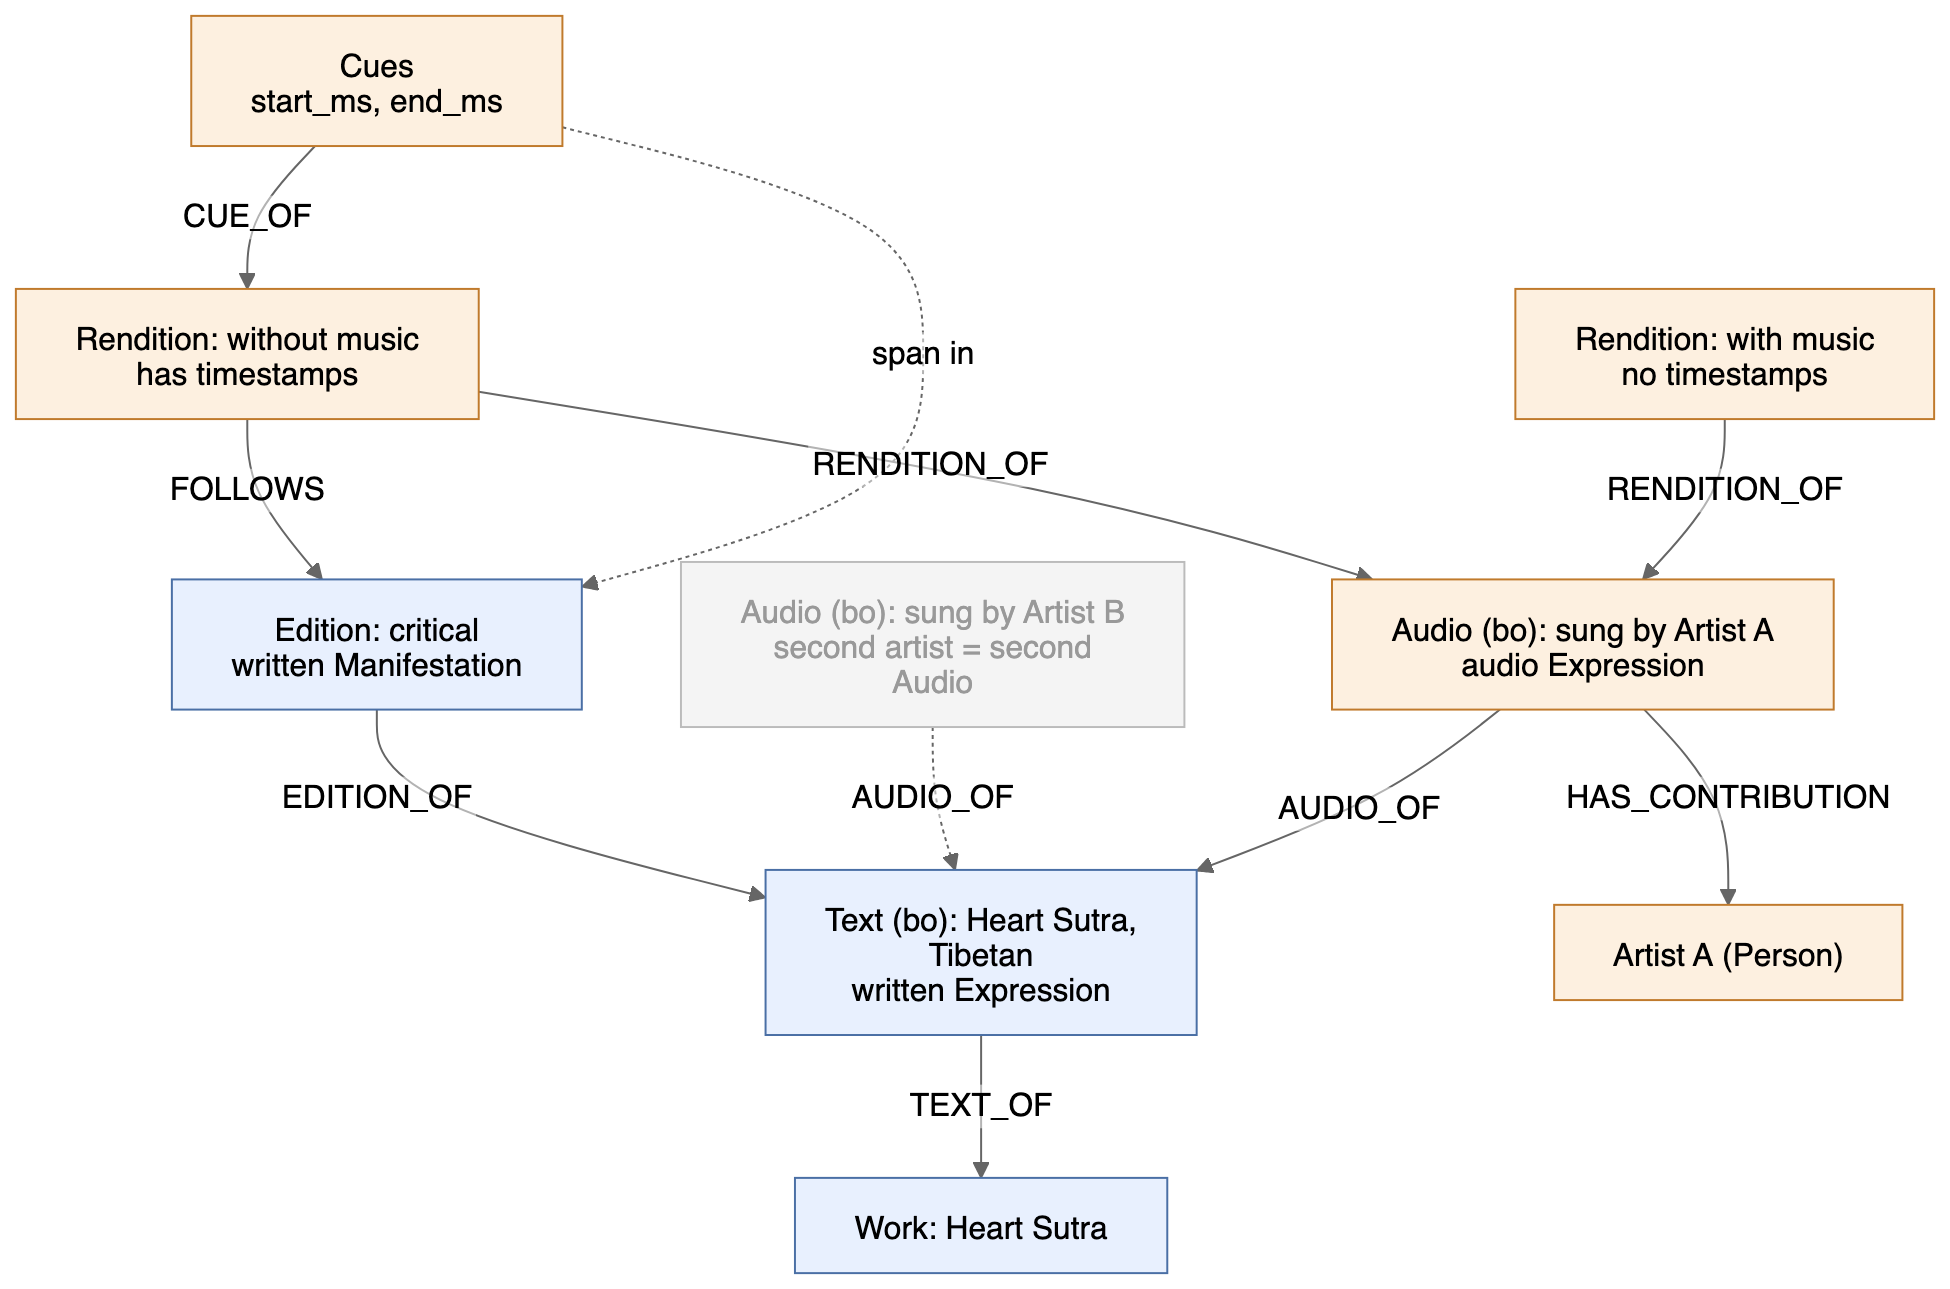
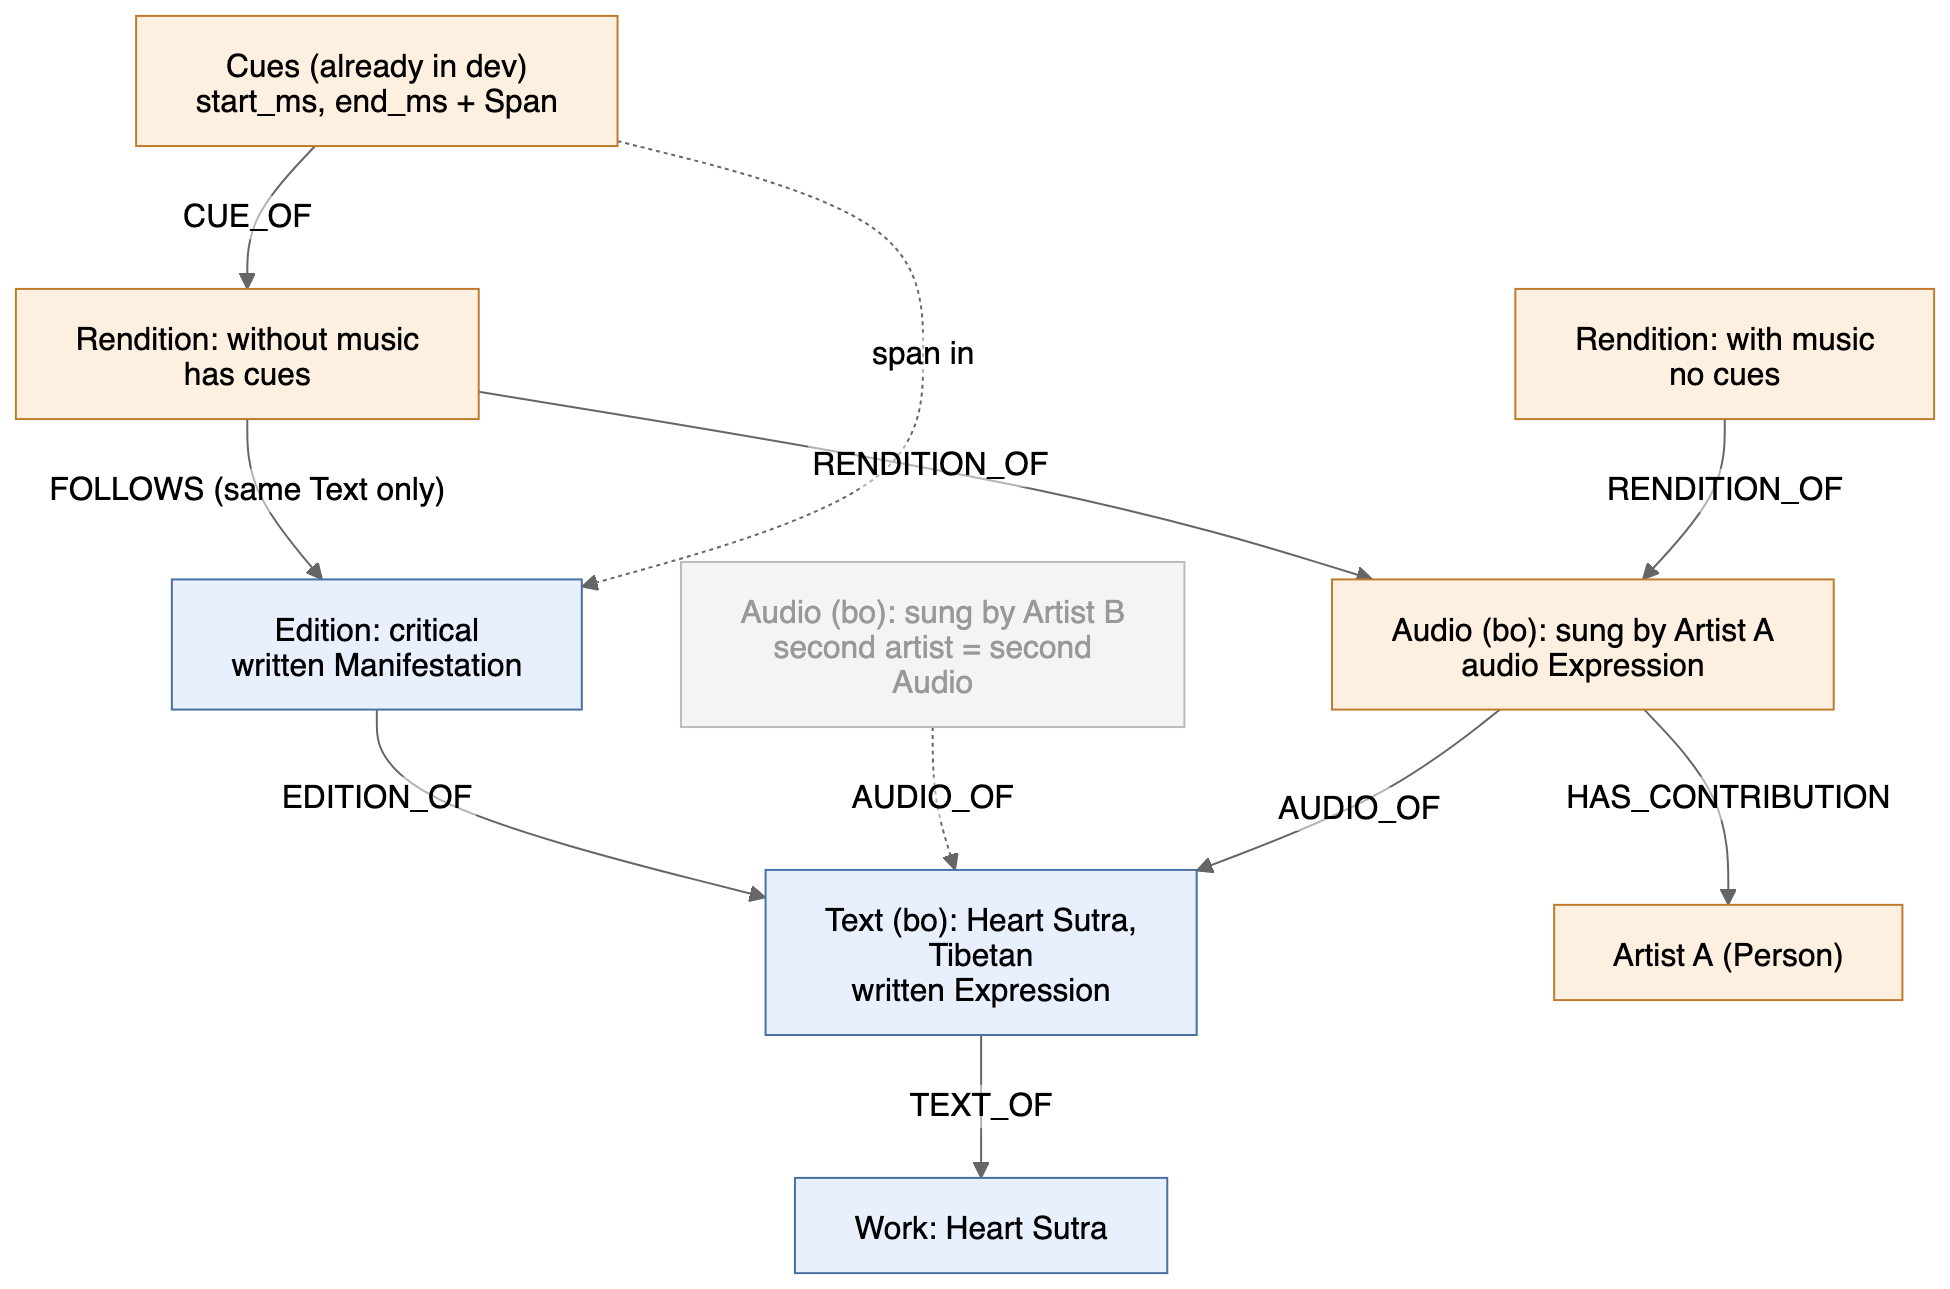
docs: audio proposal rev 2 (existing cues, same-text rule)
Records what the cue feature in dev already does and keeps it.
Adds the rule that a rendition's FOLLOWS edition must belong to the
same Text as its Audio, the list of changes, must-keep items, and
options for the team.

diff --git a/docs/proposals/audio-as-expression.md b/docs/proposals/audio-as-expression.md
@@ -1,12 +1,18 @@
 # Audio as its own Expression
 
-Status: proposal. Branch `feat/audio-expression-proposal`, from `dev` (`939df17`).
+Status: proposal, revision 2. Branch `feat/audio-expression-proposal`, up to date with `dev` (`8593529`). Issue: [#449](https://github.com/Webuddhist-tech/Webuddhist-library/issues/449).
+
+Revision 2 adds two items from team review:
+
+1. Cues and timings are already in `dev`. This proposal keeps them. It changes only the node that a cue attaches to.
+2. The edition that a rendition follows must belong to the same text as the audio. The database must enforce this rule.
 
 ## Idea
 
-- One artist's performance of a text is an **audio Expression**.
-- Each version of that performance (with music, without music) is a **rendition** at the Manifestation (edition) level.
-- A rendition with timestamps is aligned to the written edition it follows. A rendition without timestamps is linked only at the Expression level.
+- One artist's performance of a text is an **Audio** (Expression level).
+- Each version of that performance (with music, without music) is a **rendition** (Manifestation level).
+- A rendition with cues follows one written edition. That edition must be an edition of the same text as the Audio.
+- A rendition without cues links only to the Audio.
 
 ## Example
 
@@ -15,11 +21,11 @@ Work: Heart Sutra
 └─ Text (bo): Heart Sutra, Tibetan                ← written Expression
    ├─ Edition: critical                           ← written Manifestation
    └─ Audio (bo): Heart Sutra, sung by Artist A   ← audio Expression, AUDIO_OF the Tibetan text
-      ├─ Rendition: without music                 ← has timestamps → aligned to the critical edition
-      └─ Rendition: with music                    ← no timestamps → Expression-level link only
+      ├─ Rendition: without music                 ← has cues → FOLLOWS the critical edition
+      └─ Rendition: with music                    ← no cues → links to the Audio only
 ```
 
-A second artist gets a second audio Expression under the same Tibetan text.
+A second artist gets a second Audio under the same Tibetan text.
 
 ## Graph
 
@@ -32,26 +38,84 @@ graph LR
   Audio["Audio (Expression)"] -->|AUDIO_OF| Text["Text (Expression)"]
   Audio -->|HAS_CONTRIBUTION| Artist["Contribution → Person"]
   Rendition["Rendition (Manifestation)"] -->|RENDITION_OF| Audio
-  Rendition -.->|FOLLOWS, only with timestamps| Edition
+  Rendition -.->|FOLLOWS, only with cues| Edition
   Cue -->|CUE_OF| Rendition
-  Cue -.->|span in| Edition
-  Edition -->|EDITION_OF| Text
+  Span -->|SPAN_OF| Cue
+  Edition -->|EDITION_OF, same Text as AUDIO_OF| Text
 ```
 
 | Level | Node | Holds |
 |---|---|---|
 | Expression | `Audio` | title, language, license, artist (contribution), `AUDIO_OF → Text` |
-| Manifestation | `Rendition` | variant label (e.g. "with music"), audio file, format, duration |
-| Alignment | `Cue` | `start_ms`, `end_ms`, span in the `FOLLOWS` edition |
+| Manifestation | `Rendition` | variant label (for example "with music"), audio file key, format, size, duration |
+| Alignment | `Cue` + `Span` | `start_ms`, `end_ms`, and a `Span` in the `FOLLOWS` edition. No change from `dev`. |
+
+## What is in `dev` now
+
+The cue feature (`6d7dbb7`) is complete. We keep all of it.
+
+| Item | Where | Status |
+|---|---|---|
+| Graph shape `(:Span)-[:SPAN_OF]->(:Cue {start_ms, end_ms})-[:CUE_OF]->(:Recording)` | `database/neo4j_schema.yaml`, `database/recording_database.py` | Keep. Change only the `CUE_OF` target if we rename `Recording`. |
+| `GET`, `PUT`, `DELETE /v2/recordings/{id}/cues`. Cues are written and read in bulk. Cues have no ID. | `routers/recordings.py` | Keep. |
+| Rules: one cue or more, `start_ms < end_ms`, sorted, no time overlap, gaps allowed, a span repeats for a refrain, span in edition content | `models/recording.py`, `RecordingDatabase.replace_cues` | Keep. |
+| Triggers `enforce_cue_cue_of` and `enforce_cue_start_ms_lt_end_ms` | `database/neo4j_triggers.py` | Keep. |
+| Cue spans move with `PATCH /v2/editions/{id}/content`. A cue is deleted when its full span is deleted. | `database/span_database.py` | Keep. Change the match path. |
+| A cue write increments the edition revision | `touch_edition` in `replace_cues` and `delete_cues` | Keep. Use the `FOLLOWS` edition. |
+| Content migration checks that cue spans are in range | `database/content_migration.py` | Keep. Change the match path. |
+
+Today the cue span offsets point into the edition of `RECORDING_OF`. In this proposal they point into the edition of `FOLLOWS`. The offsets do not change. Existing cues stay correct after the migration.
 
 ## Rules
 
-1. Every `Audio` must have `AUDIO_OF` one `Text`. This is the Expression-level link and always exists.
-2. Every `Rendition` must have `RENDITION_OF` one `Audio`.
-3. `FOLLOWS → Edition` is optional. It is required only when the rendition has cues; all cues point into that edition.
-4. Renditions of the same `Audio` share its artist; a different artist means a different `Audio`.
-5. Deleting an edition removes `FOLLOWS` and its cues only. The audio and its renditions stay.
+1. Every `Audio` must have exactly one `AUDIO_OF → Text`. You cannot change it after you create the Audio.
+2. Every rendition must have exactly one `RENDITION_OF → Audio`.
+3. A rendition can have zero or one `FOLLOWS → Edition`.
+4. **Same text.** If a rendition has `FOLLOWS → Edition`, then that edition must have `EDITION_OF` the same `Text` as the Audio's `AUDIO_OF`. An edition of a translation or a commentary is not permitted.
+5. A rendition can have cues only if it has `FOLLOWS`. All cue spans point into that edition.
+6. If you change or remove `FOLLOWS`, the system deletes the cues of that rendition. Offsets into one edition are not correct in a different edition.
+7. Contributions (the artist) are on the Audio only. All renditions of one Audio have the same artist. A different artist must have a different Audio.
+8. If you delete an edition, the system deletes only the `FOLLOWS` relations and the cues that point into it. The Audio and its renditions stay.
+9. The audio file key must not contain an edition ID. The rendition stores its key.
 
-## Change from today
+## Changes to make
 
-Today a `Recording` hangs off an edition (`RECORDING_OF → Edition`, required). Under this proposal the current `Recording` becomes a `Rendition`, and a new `Audio` node sits between it and the `Text`. Existing recordings migrate to one `Audio` per (text, artist) with one rendition each, plus `FOLLOWS` to their current edition.
+| # | Change | Files |
+|---|---|---|
+| C1 | Add the `Audio` node with `AUDIO_OF → Text` (required), title, language, license, and narrator contributions. | `neo4j_schema.yaml`, new `models/audio.py`, new `database/audio_database.py` |
+| C2 | Attach the rendition to the Audio with `RENDITION_OF` (required). Replace `RECORDING_OF → Edition` (required) with `FOLLOWS → Edition` (optional). Move title, language, license, and contributions from the rendition to the Audio. Add a variant label to the rendition. | `neo4j_schema.yaml`, `models/recording.py`, `recording_database.py` |
+| C3 | Enforce the same-text rule (rule 4). Add a trigger with an audit query, as for `enforce_recording_contribution_narrator`. Also validate in the API and return `422`. | `neo4j_triggers.py`, `database_validator.py` |
+| C4 | Enforce rule 5. Add a trigger: a `Cue` must belong to a rendition that has `FOLLOWS`. `PUT /cues` on a rendition with no `FOLLOWS` returns `422`. | `neo4j_triggers.py`, `recording_database.py` |
+| C5 | Change the cue match path from `RECORDING_OF` to `FOLLOWS` in span updates, cue reads and writes, and content migration. | `span_database.py`, `recording_database.py`, `content_migration.py` |
+| C6 | Edition delete: replace the cascade `RecordingDatabase.DELETE_ALL_QUERY` with a query that deletes only `FOLLOWS`, cues, and their spans. | `edition_database.py:200`, `recording_database.py` |
+| C7 | Store the audio key on the rendition (`audio_key`), as `Edition.content_key` does. New key: `recordings/{rendition_id}.{format}`. Old files stay at their old keys. | `content_service.py:86`, `recording_database.py` |
+| C8 | API. Add `POST` and `GET /v2/texts/{text_id}/audios`, and `GET`, `PATCH`, `DELETE /v2/audios/{id}`. Add `POST /v2/audios/{id}/renditions` (multipart). Add a way to set and remove `FOLLOWS`. Keep the cue endpoints. | `routers/`, `docs/api-documentation/recordings-api.md` |
+| C9 | Migration. For each existing recording: make one Audio per (text, narrator set), attach the recording to it, change `RECORDING_OF` to `FOLLOWS`, and copy the old key into `audio_key`. Cues do not change. | new migration script |
+| C10 | Tests: same-text rule, cues without `FOLLOWS`, edition delete keeps audio, migration. | `tests/test_recordings.py`, `tests/test_neo4j_triggers.py`, `tests/schema_contract.py` |
+
+## Must keep (do not change these)
+
+- `AUDIO_OF → Text` is required. Audio is an Expression, not a part of an edition.
+- The same-text rule (rule 4). The database enforces it with a trigger, not only the API.
+- Cue spans point into exactly one edition, the `FOLLOWS` edition. No cues without `FOLLOWS`.
+- The current cue rules, the `Span` pattern, the bulk cue API, and the span updates on content edits.
+- One Audio has one artist. The contributions are on the Audio.
+- Edition delete never deletes audio.
+- The audio file key does not depend on an edition.
+
+## Options (the team can decide)
+
+| Topic | Options | Recommendation |
+|---|---|---|
+| Name of the Manifestation node | Keep `Recording` and `/v2/recordings/...`, or rename to `Rendition` | Keep `Recording`. Clients and the cue endpoints already use it. Use `Rendition` only in documents. |
+| License | On the Audio only, or a rendition can override it (a music track can have other rights) | Audio only now. Add an override later if necessary. |
+| Variant label | Free text, or a fixed list (`with_music`, `without_music`) | Free localized text. |
+| Old endpoint `POST /v2/editions/{id}/recordings` | Keep it as a shortcut that makes Audio + rendition + `FOLLOWS`, or remove it | Keep it for one release, then remove it. |
+| Old S3 keys | Copy files to new keys, or keep old keys with `audio_key` | Keep old keys. Do not copy files. |
+| Highlights in other editions through `ALIGNED_TO` segments | Now or later | Later. |
+| Clean up audio files with no rendition | Now or later | Later. |
+
+## Not in scope
+
+- Audio of a translation. A Tibetan chant that follows an English edition is not permitted by rule 4. A translation read aloud gets its own Audio under the translation `Text`.
+- Automatic cue generation from audio.
